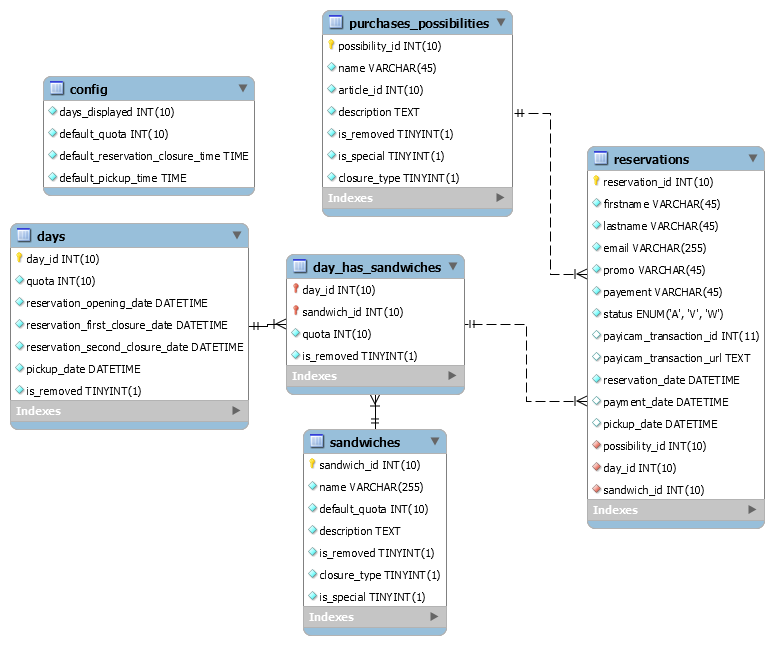
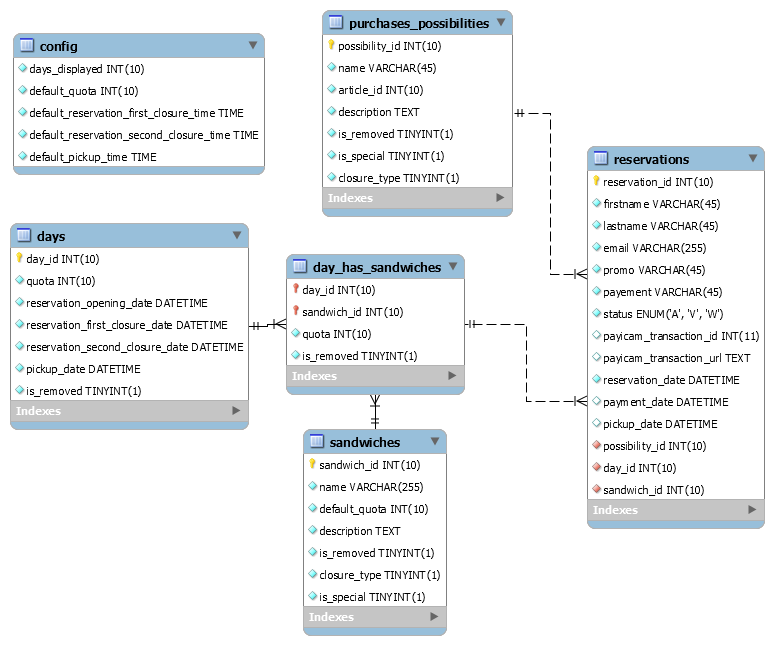
Permettre d'ajouter tous les jours de la semnaine SUIVANTE en cliquant sur un simple bouton suivant les valeurs de la config
Ajustement d'un champ en config (reservation_2nd_closure_type) pour marcher avec

Changed region(s): [[0.0, 0.031, 0.3411, 0.3101]]

diff --git a/src/Day.php b/src/Day.php
@@ -61,7 +61,9 @@ class Day {
         global $db;
         $day_id = $db->query('INSERT INTO days(quota, reservation_opening_date, reservation_first_closure_date, reservation_second_closure_date, pickup_date) VALUES (:quota, :reservation_opening_date, :reservation_first_closure_date, :reservation_second_closure_date, :pickup_date)', $day);
         foreach($day_sandwiches as $sandwich) {
-            $db->query('INSERT INTO day_has_sandwiches(day_id, sandwich_id, quota) VALUES (:day_id, :sandwich_id, :quota)', array("day_id" => $day_id, "sandwich_id" => $sandwich->sandwich_id, "quota" => $sandwich->quota));
+            $data = array("day_id" => $day_id, "sandwich_id" => $sandwich->sandwich_id, "quota" => $sandwich->quota ?? $sandwich->default_quota);
+
+            $db->query('INSERT INTO day_has_sandwiches(day_id, sandwich_id, quota) VALUES (:day_id, :sandwich_id, :quota)', $data);
         }
         return $day_id;
     }
@@ -130,15 +132,35 @@ class Day {
     public static function already_created($pickup_date, $day_id=false) {
         global $db;
         if($day_id===false) {
-            return $db->queryFirst('SELECT CASE WHEN DATE(:pickup_date) IN (SELECT DATE(pickup_date) FROM days) THEN 1 ELSE 0 END already_created', array('pickup_date' => $pickup_date))['already_created'];
+            return $db->queryFirst('SELECT 
+                CASE 
+                    WHEN DATE(:pickup_date) IN (SELECT DATE(pickup_date) FROM days) AND (SELECT is_removed FROM days WHERE DATE(pickup_date) = DATE(:pickup_date)) =1 THEN 2
+                    WHEN DATE(:pickup_date) IN (SELECT DATE(pickup_date) FROM days) THEN 1
+                    ELSE 0 END already_created', 
+                array('pickup_date' => $pickup_date))['already_created'];
         } else {
             return $db->queryFirst('SELECT CASE WHEN DATE(:pickup_date) IN (SELECT DATE(pickup_date) FROM days where day_id != :day_id) THEN 1 ELSE 0 END already_created', array('pickup_date' => $pickup_date, 'day_id' => $day_id))['already_created'];
         }
     }
     public static function cant_change_day($pickup_date, $day_id) {
         global $db;
-            return $db->queryFirst('SELECT CASE WHEN DATE(:pickup_date)!=DATE(pickup_date) AND (SELECT COUNT(*) FROM reservations where day_id = :day_id and status IN("V", "W"))>0 THEN 1 ELSE 0 END cant_change FROM days WHERE day_id=:day_id', array('pickup_date' => $pickup_date, 'day_id' => $day_id))['cant_change'];
+        return $db->queryFirst('SELECT CASE WHEN DATE(:pickup_date)!=DATE(pickup_date) AND (SELECT COUNT(*) FROM reservations where day_id = :day_id and status IN("V", "W"))>0 THEN 1 ELSE 0 END cant_change FROM days WHERE day_id=:day_id', array('pickup_date' => $pickup_date, 'day_id' => $day_id))['cant_change'];
     }
+    public static function cant_remove_day($day_id) {
+        global $db;
+        return $db->queryFirst('SELECT CASE WHEN (SELECT COUNT(*) FROM reservations where day_id = :day_id and status IN("V", "W"))>0 THEN 1 ELSE 0 END cant_change FROM days WHERE day_id=:day_id', array('day_id' => $day_id))['cant_change'];
+    }
+
+    public static function remove_day($day_id) {
+        global $db;
+        $db->query('UPDATE days SET is_removed = 1 WHERE day_id=:day_id', array('day_id' => $day_id));
+    }
+
+    public static function restore($pickup_date) {
+        global $db;
+        $db->query('UPDATE days SET is_removed = 0 WHERE DATE(:pickup_date) = DATE(pickup_date)', array('pickup_date' => $pickup_date));
+    }
+
 
     public function export_reservations_csv($day_id, $fields=['firstname','lastname','email','promo','payement','status','reservation_date','payment_date','pickup_date','possibility','sandwich']) {
         $reservations = Reservation::get_all($this->day_id, 'V');

diff --git a/src/Config.php b/src/Config.php
@@ -3,7 +3,8 @@
 class Config {
     public $days_displayed;
     public $default_quota;
-    public $default_reservation_closure_time;
+    public $default_reservation_first_closure_time;
+    public $default_reservation_second_closure_time;
     public $default_pickup_time;
 
     public function __construct() {
@@ -14,13 +15,22 @@ class Config {
     protected function bind($config) {
         $this->days_displayed = $config['days_displayed'];
         $this->default_quota = $config['default_quota'];
-        $this->default_reservation_closure_time = $config['default_reservation_closure_time'];
+        $this->default_reservation_first_closure_time = $config['default_reservation_first_closure_time'];
+        $this->default_reservation_second_closure_time = $config['default_reservation_second_closure_time'];
         $this->default_pickup_time = $config['default_pickup_time'];
     }
 
     public static function update($config) {
         global $db;
-        $db->query('UPDATE config SET days_displayed=:days_displayed, default_quota=:default_quota, default_reservation_closure_time=:default_reservation_closure_time, default_pickup_time=:default_pickup_time', array("days_displayed" => $config['days_displayed'], "default_quota" => $config['default_quota'], "default_reservation_closure_time" => $config['default_reservation_closure_time'], "default_pickup_time" => $config['default_pickup_time']));
+        $data = array(
+            "days_displayed" => $config['days_displayed'],
+            "default_quota" => $config['default_quota'],
+            "default_reservation_first_closure_time" => $config['default_reservation_first_closure_time'], 
+            "default_reservation_second_closure_time" => $config['default_reservation_second_closure_time'], 
+            "default_pickup_time" => $config['default_pickup_time']
+        );
+
+        $db->query('UPDATE config SET days_displayed=:days_displayed, default_quota=:default_quota, default_reservation_first_closure_time=:default_reservation_first_closure_time, default_reservation_second_closure_time=:default_reservation_second_closure_time, default_pickup_time=:default_pickup_time', $data);
     }
 }
 

diff --git a/processing/add_week_days_automatically.php b/processing/add_week_days_automatically.php
@@ -1,0 +1,43 @@
+<?php
+
+require '../_header.php';
+
+$day_sandwiches = Sandwich::get_all(false);
+$config = new Config();
+
+for ($i=0; $i <= 4; $i++) { 
+    $day = date('Y-m-d', strtotime('+' . $i . ' day', strtotime('next monday')));
+
+    $opening_date = date('Y-m-d H:i:s');
+    $first_closure_date = $day . ' ' . $config->default_reservation_first_closure_time;
+    $second_closure_date = $day . ' ' . $config->default_reservation_second_closure_time;
+    $pickup_date = $day . ' ' . $config->default_pickup_time;
+
+    if(!($opening_date < $first_closure_date && $first_closure_date < $second_closure_date && $second_closure_date < $pickup_date)) {
+        Functions::flash("Les dates du jour ne sont pas logiques", "warning", $_CONFIG['public_url'] . 'admin_homepage.php');
+    }
+
+    $already_created = Day::already_created($pickup_date);
+
+    if($already_created == 1) {
+        Functions::flash("Le jour " . $i . " existe déjà", "warning");
+        continue;
+    } elseif($already_created == 2) {
+        Day::restore($pickup_date);
+        Functions::flash("Le jour " . $i . " existait déjà et a été restauré", "info");
+        continue;
+    }
+    $day = [
+        "quota" => htmlspecialchars($config->default_quota),
+        "reservation_opening_date" => $opening_date,
+        "reservation_first_closure_date" => $first_closure_date,
+        "reservation_second_closure_date" => $second_closure_date,
+        "pickup_date" => $pickup_date
+    ];
+
+    $day_id = Day::insert($day, json_decode(json_encode($day_sandwiches)));
+    Functions::flash("Jour " . $i . " ajouté", "success");
+}
+
+header('Location: ' . $_CONFIG['public_url'] . 'admin_homepage.php');
+die();

diff --git a/templates/edit_config.php b/templates/edit_config.php
@@ -10,8 +10,12 @@
             <input type="number" class="form-control" name="default_quota" id="default_quota" required value="<?= $config->default_quota ?>">
         </div>
         <div class="form-group">
-            <label for="default_reservation_closure_time">Heure de fermeture des réservations de base</label>
-            <input type="time" class="form-control" name="default_reservation_closure_time" id="default_reservation_closure_time" value="<?= $config->default_reservation_closure_time ?>">
+            <label for="default_reservation_first_closure_time">Heure de fermeture des premières réservations de base</label>
+            <input type="time" class="form-control" name="default_reservation_first_closure_time" id="default_reservation_first_closure_time" value="<?= $config->default_reservation_first_closure_time ?>">
+        </div>
+        <div class="form-group">
+            <label for="default_reservation_second_closure_time">Heure de fermeture des deuxièmes réservations de base</label>
+            <input type="time" class="form-control" name="default_reservation_second_closure_time" id="default_reservation_second_closure_time" value="<?= $config->default_reservation_second_closure_time ?>">
         </div>
         <div class="form-group">
             <label for="default_pickup_time">Heure de récupération des sandwichs de base</label>

diff --git a/processing/edit_config.php b/processing/edit_config.php
@@ -3,11 +3,12 @@
 require '../_header.php';
 
 if(!empty($_POST)) {
-    if(isset($_POST['days_displayed']) && isset($_POST['default_quota']) && isset($_POST['default_reservation_closure_time']) && isset($_POST['default_pickup_time'])) {
+    if(isset($_POST['days_displayed']) && isset($_POST['default_quota']) && isset($_POST['default_reservation_first_closure_time']) && isset($_POST['default_reservation_second_closure_time']) && isset($_POST['default_pickup_time'])) {
         $config = [
             "days_displayed" => htmlspecialchars($_POST['days_displayed']),
             "default_quota" => htmlspecialchars($_POST['default_quota']),
-            "default_reservation_closure_time" => htmlspecialchars($_POST['default_reservation_closure_time']),
+            "default_reservation_first_closure_time" => htmlspecialchars($_POST['default_reservation_first_closure_time']),
+            "default_reservation_second_closure_time" => htmlspecialchars($_POST['default_reservation_second_closure_time']),
             "default_pickup_time" => htmlspecialchars($_POST['default_pickup_time'])
         ];
 

diff --git a/templates/admin_homepage.php b/templates/admin_homepage.php
@@ -32,6 +32,9 @@
                     if($has_cafet_admin_rights) { ?>
                         <a href="edit_day.php?day_id=<?=$day_stats['day_id']?>" role="button" class="btn btn-sm" title="Editer le jour de réservations"><span class="oi oi-pencil"></span></a>
                         <a href="export_day.php?day_id=<?=$day_stats['day_id']?>" role="button" class="btn btn-sm" title="Télécharger un export"><span class="oi oi-data-transfer-download"></span></a>
+                        <?php if(!Day::cant_remove_day($day_stats['day_id'])): ?> 
+                            <a href="processing/delete_day.php?day_id=<?=$day_stats['day_id']?>" role="button" class="btn btn-sm" title="Supprimer un jour" onclick='return confirm("Voulez vous vraiment supprimer le jour ?")'><span style="color: red;" class="oi oi-trash"></span></a>
+                        <?php endif; ?>
                     <?php } ?>
                 </th> <?php
                 $pourcentage_r = Functions::pourcentage_extended_zero_division($day_stats['reservations'], $day_stats['quota']);

diff --git a/_header.php b/_header.php
@@ -45,7 +45,6 @@ if(!in_array($route, ['login.php', 'callback.php'])) {
         $is_in_cafet_page = !in_array($route, ['homepage.php', 'processing/reservation.php', 'processing/cancel_reservation.php']);
         $is_in_cafet_admin_page = !in_array($route, ['homepage.php', 'processing/reservation.php', 'processing/cancel_reservation.php', 'admin_homepage.php', 'admin_view.php', 'add_reservation.php', 'processing/toggle_pickup.php', 'processing/toggle_pickup.php', 'processing/toggle_pickup.php', 'processing/add_reservation.php', 'processing/autocomplete.php']);
 
-
         try {
             $has_cafet_rights = \CoreHelpers\Auth::has_payicam_rights($_CONFIG['cafet_fun_id'], 'getPayutcClient', 'POSS3');
         } catch(JsonClient\JsonException $e) {
@@ -94,3 +93,4 @@ if(!in_array($route, ['login.php', 'callback.php'])) {
 
 $db = new DB($_CONFIG['database']['sql_host'], $_CONFIG['database']['sql_db'], $_CONFIG['database']['sql_login'], $_CONFIG['database']['sql_pass']);
 
+date_default_timezone_set('Europe/Paris');

diff --git a/processing/delete_day.php b/processing/delete_day.php
@@ -1,0 +1,20 @@
+<?php
+
+require '../_header.php';
+
+if(!empty($_GET)) {
+    if(isset($_GET['day_id'])) {
+        if(!Day::cant_remove_day($_GET['day_id'])) {
+            Day::remove_day($_GET['day_id']);
+            Functions::flash("Jour supprimé !", "success", $_CONFIG['public_url'] . 'admin_homepage.php');
+        } else {
+            Functions::flash("Ce jour ne peut pas être supprimé. Il y a déjà eu des réservations.", "danger", $_CONFIG['public_url'] . 'admin_homepage.php');
+        }
+    } else {
+        Functions::flash("Les bonnes données n'ont pas été transmises", "danger", $_CONFIG['public_url'] . 'admin_homepage.php');
+    }
+}
+else {
+    Functions::flash("Rien n'a été transmis", "danger", $_CONFIG['public_url'] . 'admin_homepage.php');
+}
+

diff --git a/templates/header.php b/templates/header.php
@@ -54,6 +54,7 @@
                             <a  class="dropdown-item" href="admin_homepage.php">Accueil de l'administration</a>
                             <a  class="dropdown-item" href="admin_general_settings.php">Editer les paramètres généraux</a>
                             <a  class="dropdown-item" href="edit_day.php">Ajouter un jour</a>
+                            <a  class="dropdown-item" href="processing/add_week_days_automatically.php">Ajouter la prochaine semaine</a>
                         </div>
                     </li>
                     <?php } else { ?>

diff --git a/admin_homepage.php b/admin_homepage.php
@@ -10,8 +10,12 @@ function sorting($a, $b){
     return $a['sandwich_id'] <= $b['sandwich_id'] ? -1:1;
 }
 
+foreach($days_stats as $index => &$day_stats) {
+    if($day_stats['is_removed'] == 1 and $day_stats['reservations'] == 0) {
+        unset($days_stats[$index]);
+        continue;
+    }
 
-foreach($days_stats as &$day_stats) {
     if(!empty($day_stats['sandwiches_stats'])) {
         $sandwiches_ids_stats = array_column($day_stats['sandwiches_stats'], 'sandwich_id');
         $difference_ids = array_diff($sandwiches_ids, $sandwiches_ids_stats);
